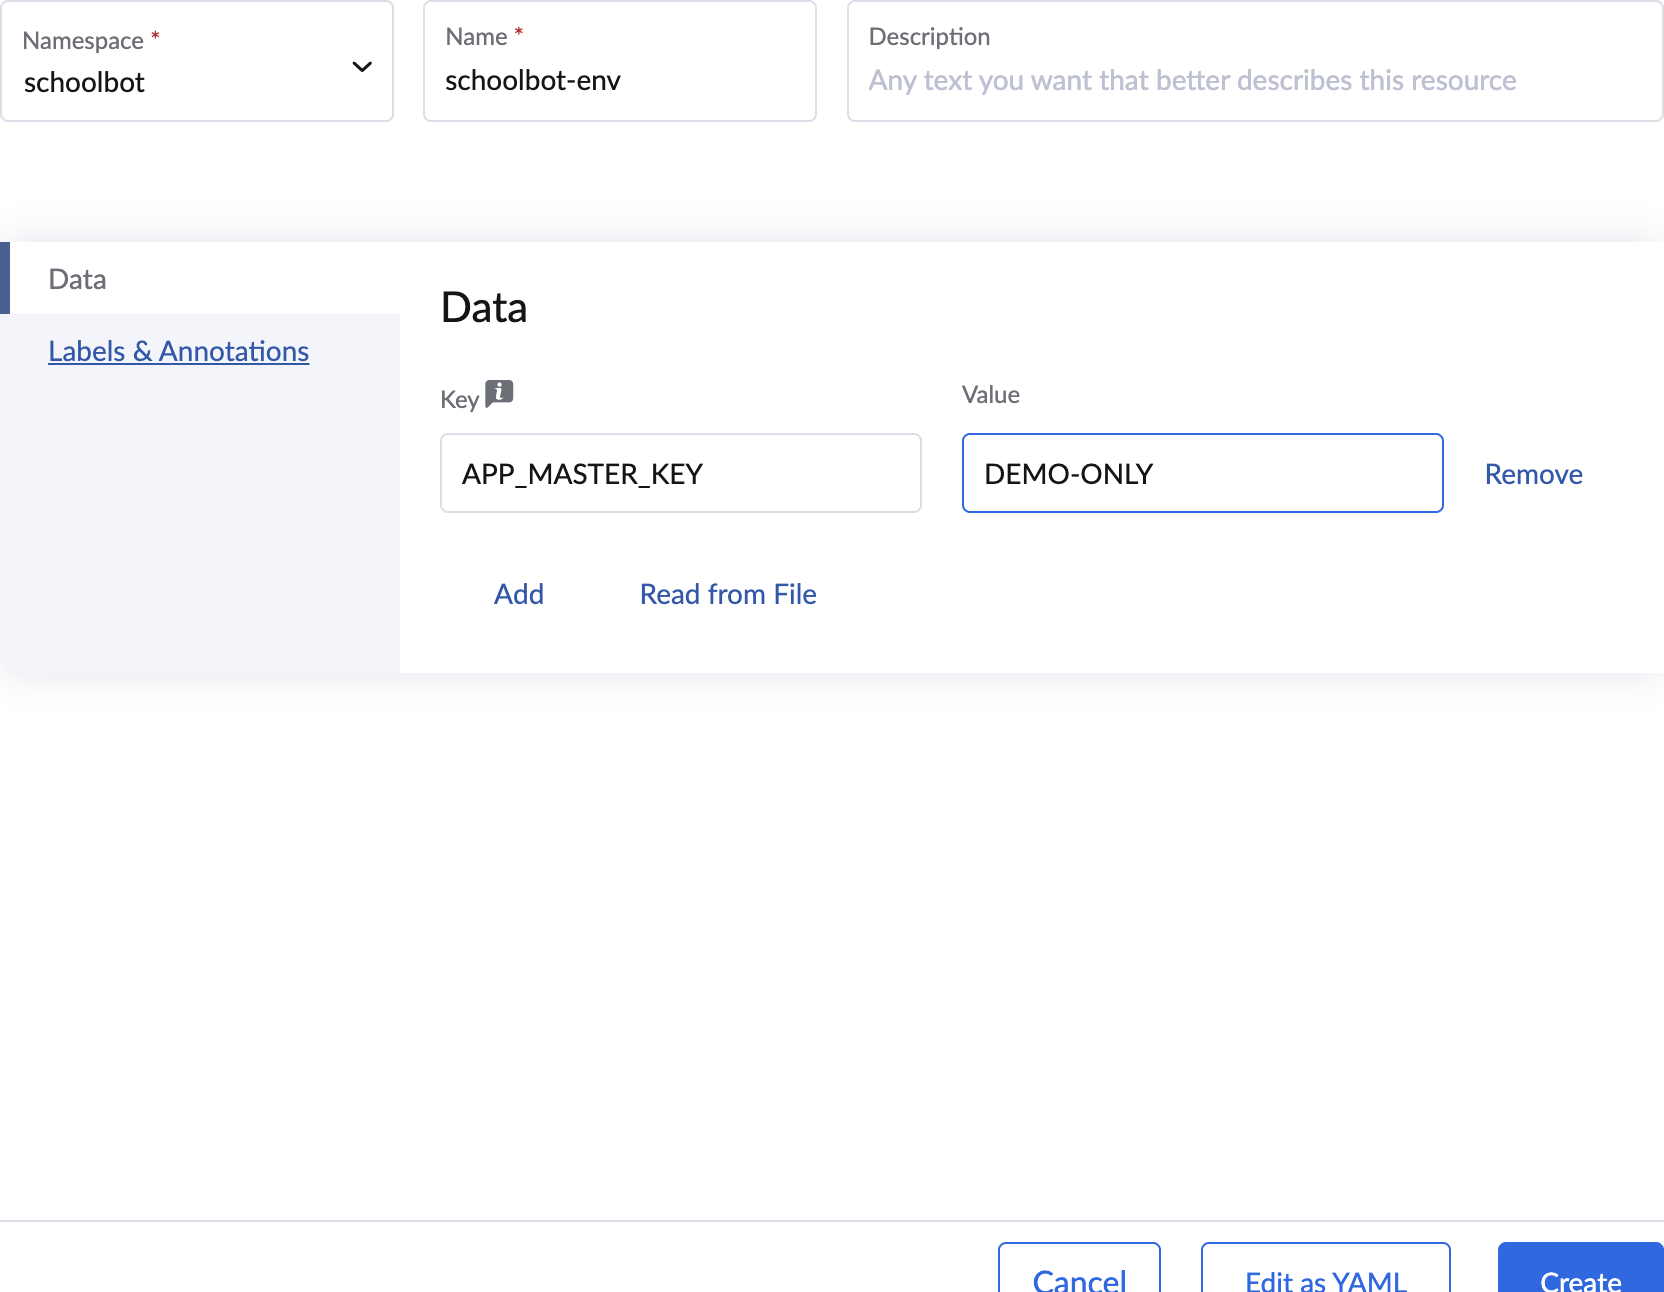
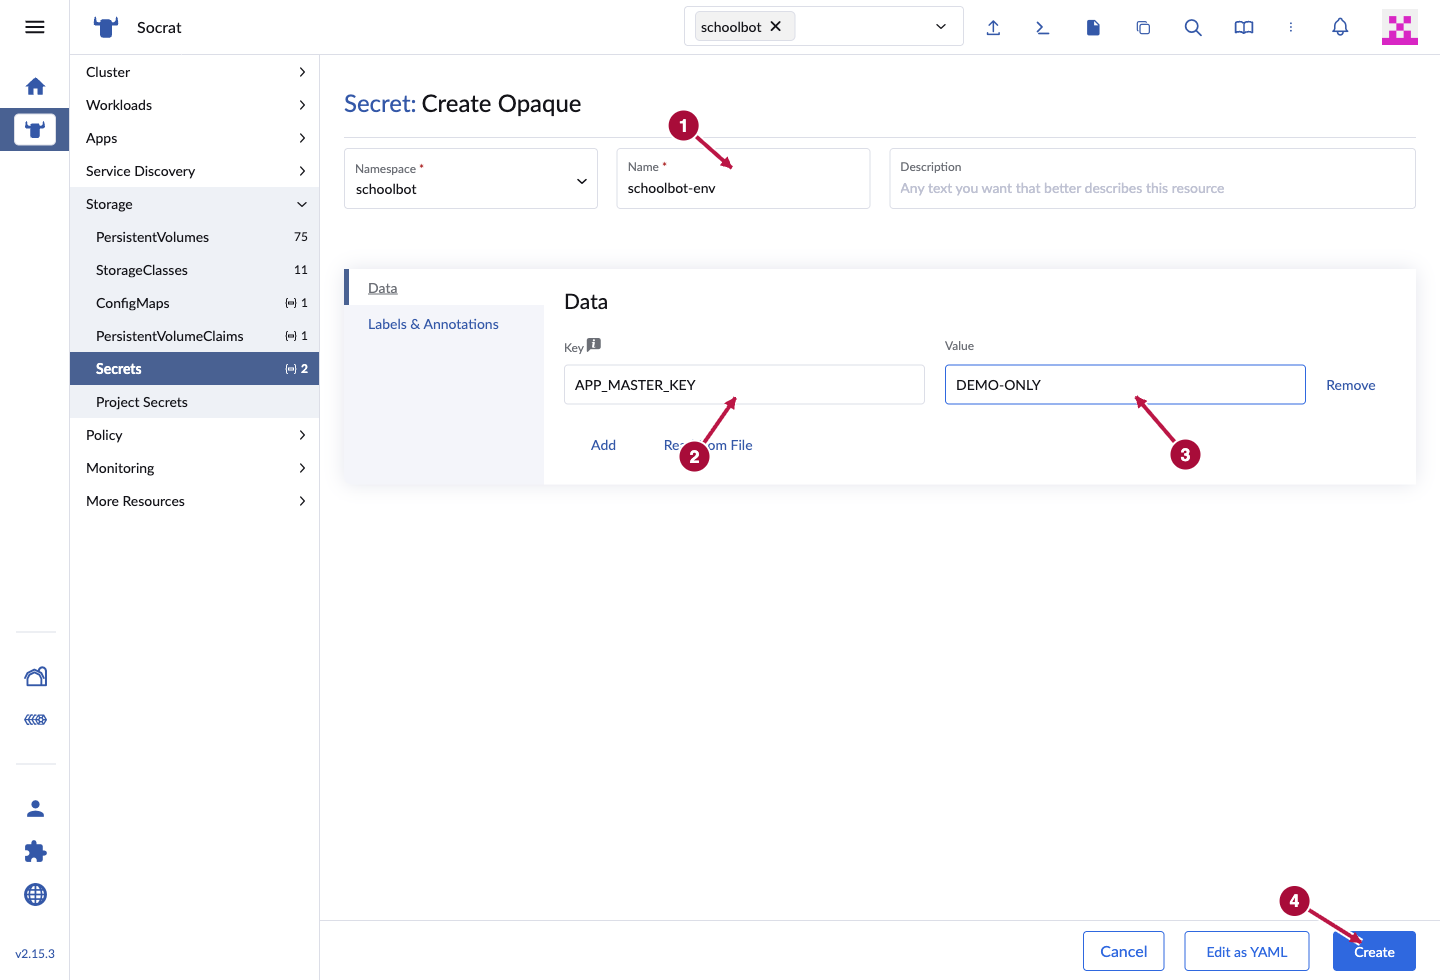
Show full Rancher screens with numbered callouts and full-size links

diff --git a/wiki/content/platform/rancher-secrets.md b/wiki/content/platform/rancher-secrets.md
@@ -9,16 +9,24 @@ weight: 51
 
 Войдите через Authentik, откройте кластер **Socrat** и в проводнике кластера выберите пространство имён **schoolbot**, затем **Storage → Secrets**. Не выбирайте **Project Secrets**: секрет нужен только одному приложению. Роли наблюдателя недостаточно для записи. Если кнопки создания или редактирования нет, попросите оператора подготовить `schoolbot-env` и выдать доступ к конкретному объекту, а не ко всем секретам кластера.
 
+![Список секретов: ① выберите пространство имён schoolbot, ② откройте Storage → Secrets, ③ нажмите Create.](https://rustfs.socrat.alchemmist.xyz/public/wiki/rancher-secrets/navigation-5460d82cf9fb.png)
+
+Список секретов: ① выберите пространство имён schoolbot, ② откройте Storage → Secrets, ③ нажмите Create. [Открыть в полном размере](https://rustfs.socrat.alchemmist.xyz/public/wiki/rancher-secrets/navigation-5460d82cf9fb.png).
+
 - Если `schoolbot-env` **уже есть**, откройте меню **⋮ → Edit Config** и перейдите к заполнению полей. Сохраните существующие ключи.
 - Если его **нет** и у вас есть право создания, нажмите **Create → Opaque**. Тип `Registry` предназначен для скачивания образов (`schoolbot-harbor-pull`), а `TLS Certificate` — для сертификата. Их менять не нужно.
 
-![Экран выбора типа секрета в Rancher: для переменных приложения выберите Opaque.](https://rustfs.socrat.alchemmist.xyz/public/wiki/rancher-secrets/type-4ba17f8b5cbb.png)
+![Выбор типа: ① нажмите Opaque.](https://rustfs.socrat.alchemmist.xyz/public/wiki/rancher-secrets/type-df296bd1e817.png)
+
+Выбор типа: ① нажмите Opaque. [Открыть в полном размере](https://rustfs.socrat.alchemmist.xyz/public/wiki/rancher-secrets/type-df296bd1e817.png).
 
 ## Заполнить форму
 
 Проверьте **Namespace**: `schoolbot`. В **Name** укажите `schoolbot-env`. На вкладке **Data** нажимайте **Add** для каждой пары: в **Key** — точное имя переменной, в **Value** — её значение. Кодировать в base64 или обрамлять значение кавычками не нужно. На снимке показана одна строка с **учебным** значением `DEMO-ONLY`: не используйте его при запуске.
 
-![Форма Rancher с пространством имён schoolbot, именем schoolbot-env и примером строки на вкладке Data.](https://rustfs.socrat.alchemmist.xyz/public/wiki/rancher-secrets/data-2351ed418c02.png)
+![Форма: ① имя секрета, ② ключ, ③ значение, ④ создание после заполнения всех строк.](https://rustfs.socrat.alchemmist.xyz/public/wiki/rancher-secrets/data-d335010d1c14.png)
+
+Форма: ① имя секрета, ② ключ, ③ значение, ④ создание после заполнения всех строк. [Открыть в полном размере](https://rustfs.socrat.alchemmist.xyz/public/wiki/rancher-secrets/data-d335010d1c14.png).
 
 Текущий [Deployment Schoolbot](https://github.com/alchemmist/homelab/blob/main/charts/schoolbot/templates/deployment.yaml) читает **все шесть ключей из одного Secret**:
 
